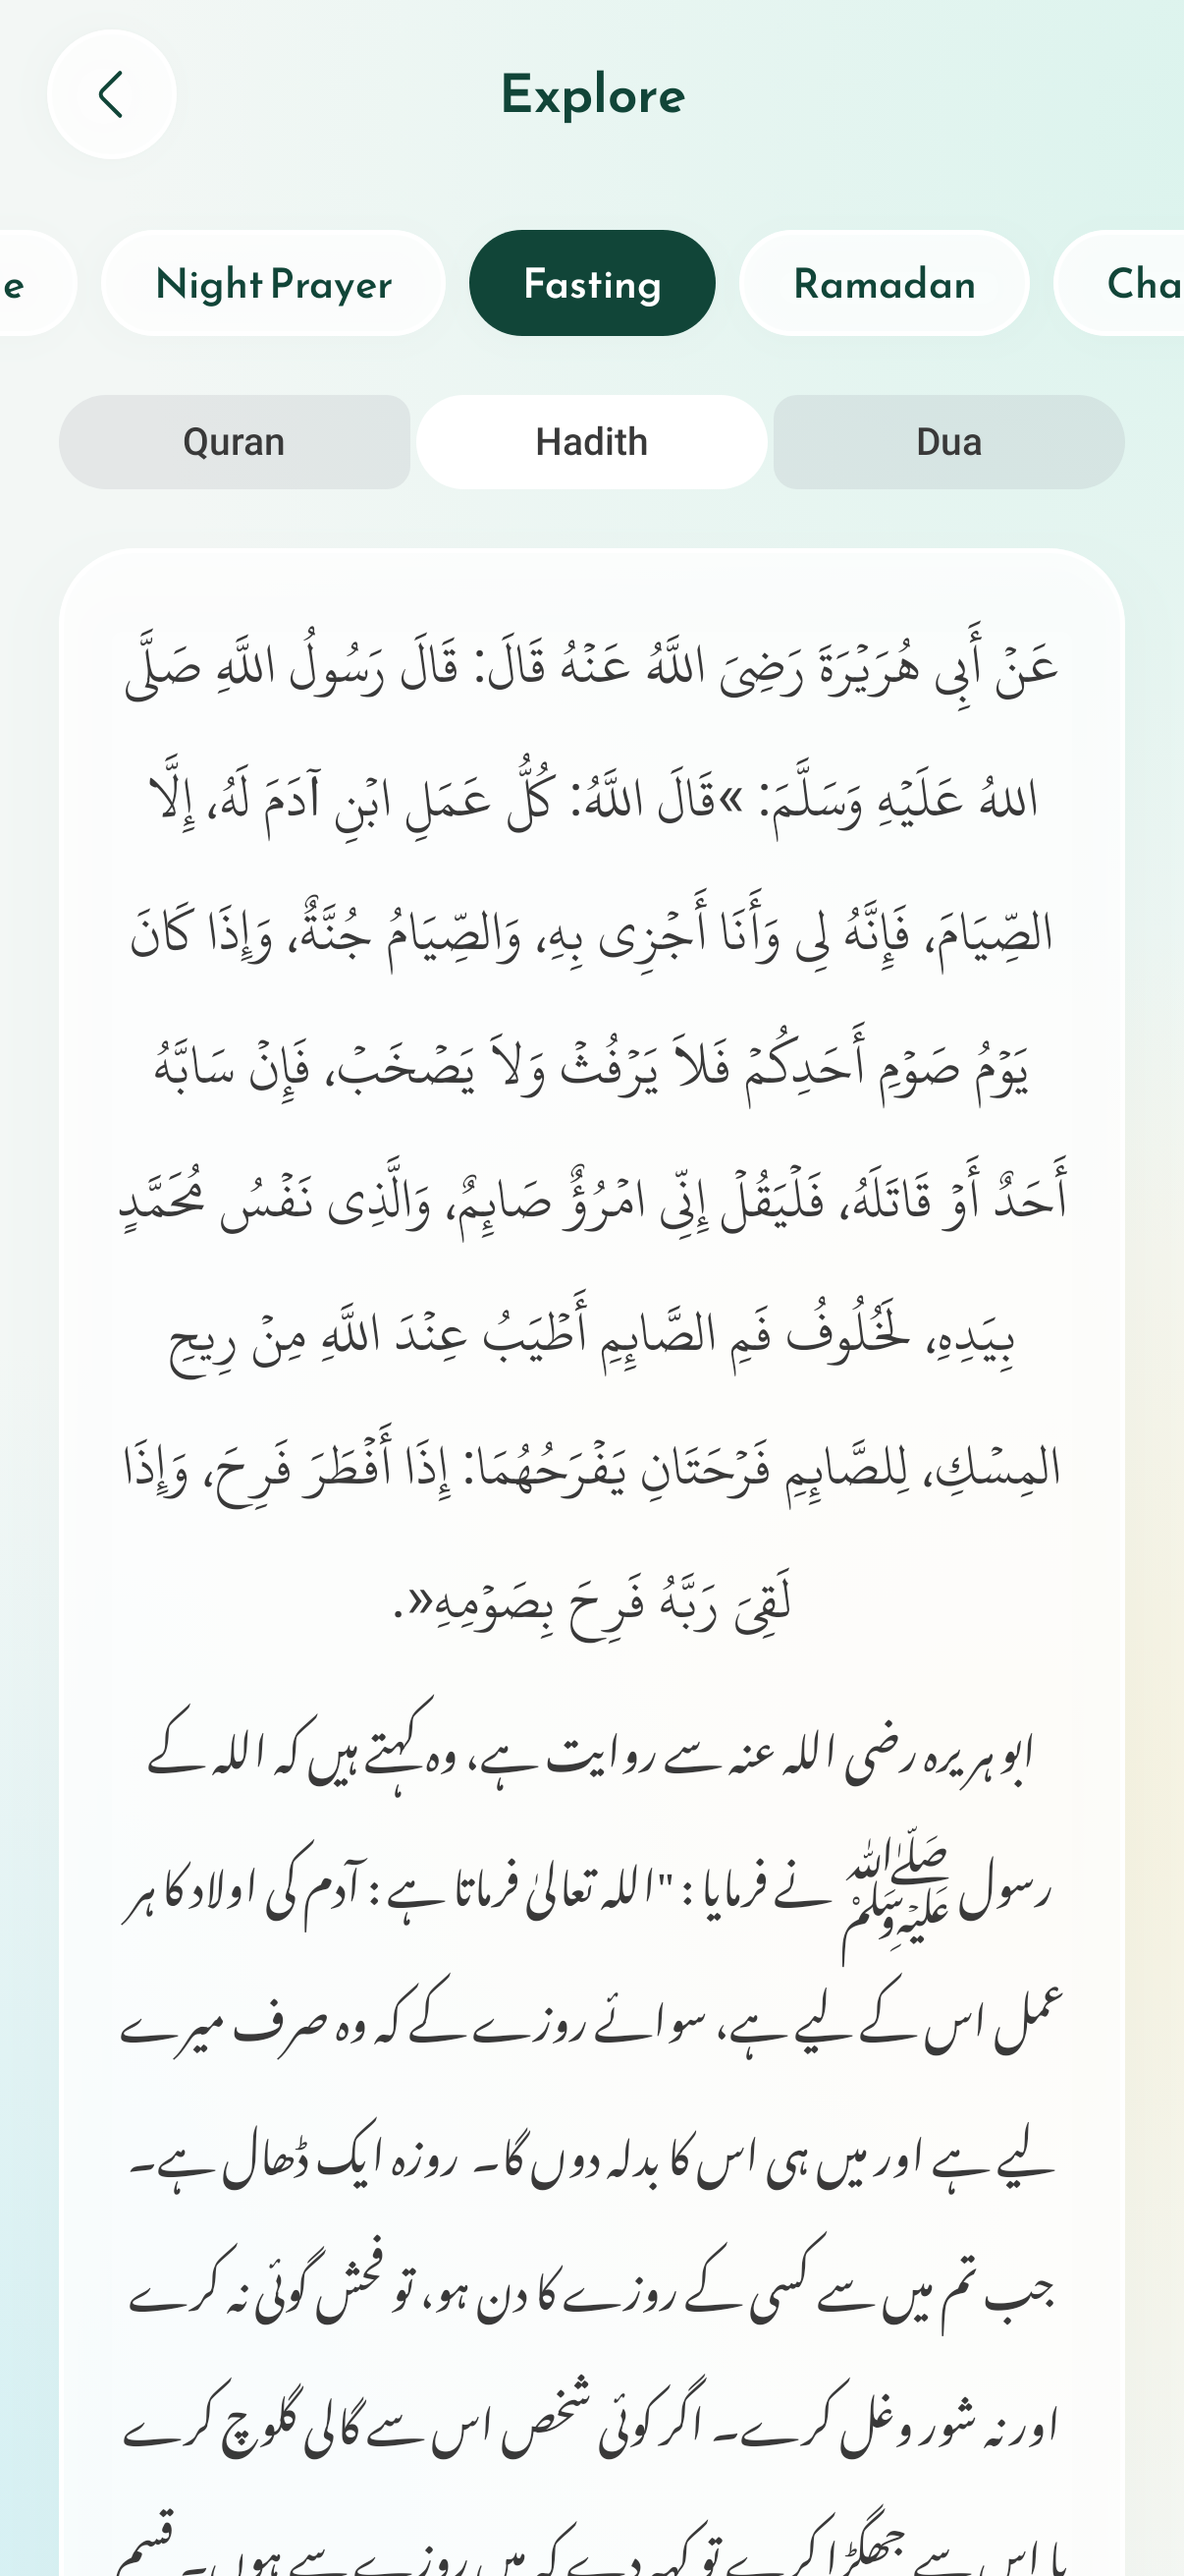
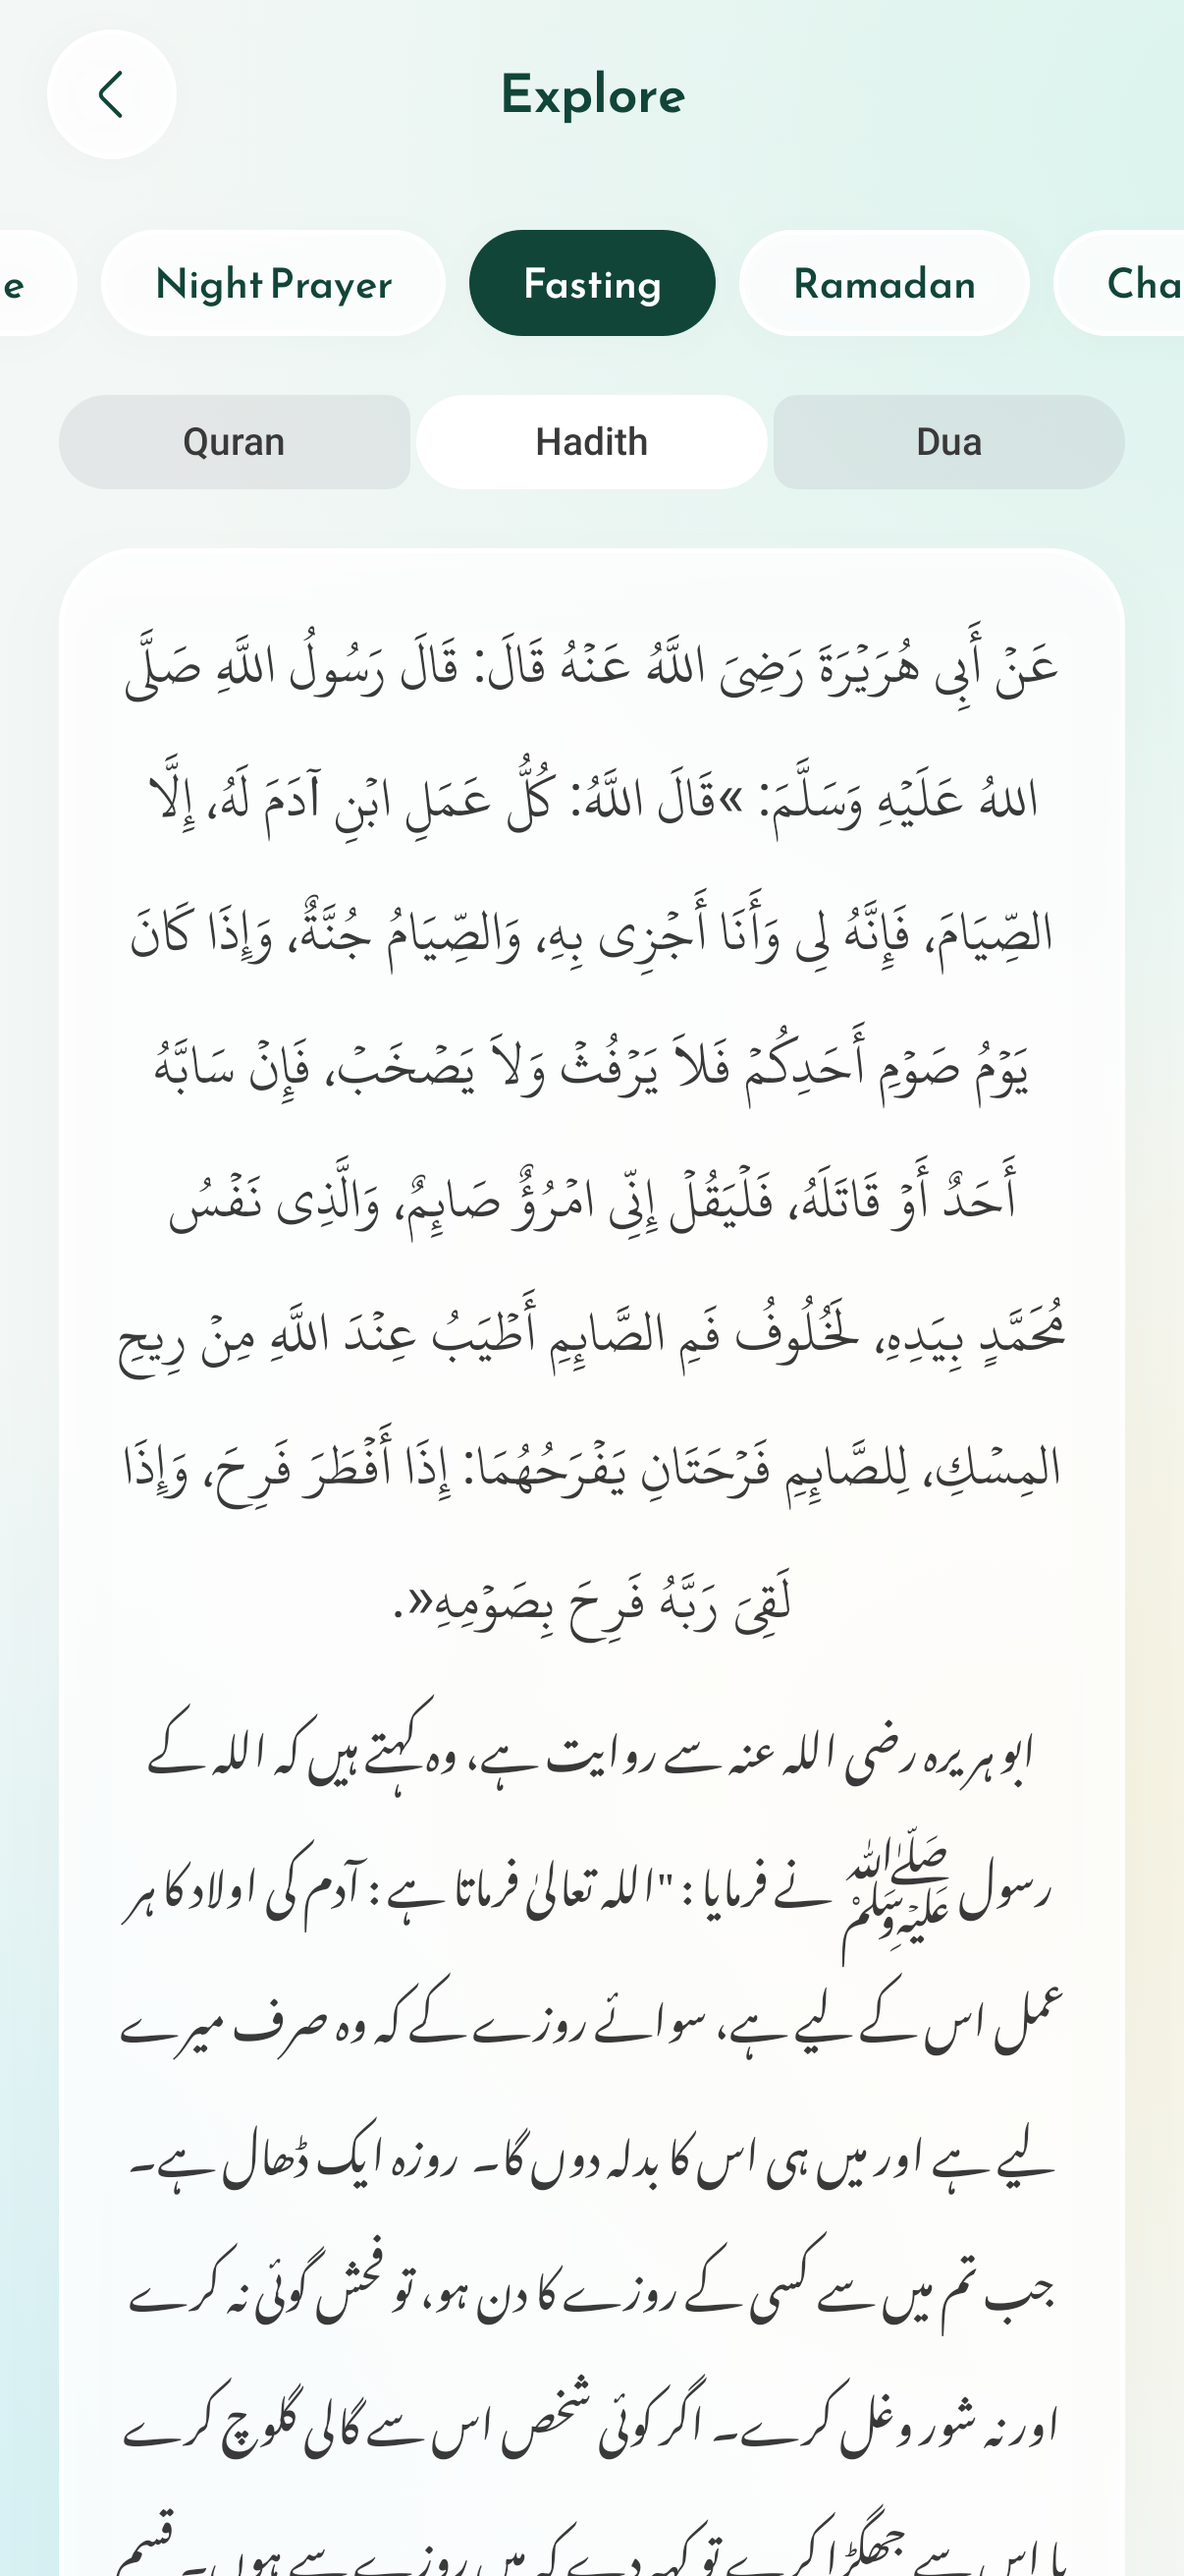
fix(android): break Arabic and translation lines per paragraph, as iOS does
High-quality paragraph breaking keeps a lone word off the last line. The guide now switches the
simulator's language with defaults write, which the preferences cache can't undo.

Changed region(s): [[0.1227, 0.4325, 0.7977, 0.5252], [0.7977, 0.4325, 0.8897, 0.5252]]

diff --git a/androidApp/src/main/kotlin/com/muttaqi/android/designsystem/component/Text.kt b/androidApp/src/main/kotlin/com/muttaqi/android/designsystem/component/Text.kt
@@ -15,6 +15,7 @@ import androidx.compose.ui.text.SpanStyle
 import androidx.compose.ui.text.TextStyle
 import androidx.compose.ui.text.buildAnnotatedString
 import androidx.compose.ui.text.font.FontFamily
+import androidx.compose.ui.text.style.LineBreak
 import androidx.compose.ui.text.style.LineHeightStyle
 import androidx.compose.ui.text.style.TextAlign
 import androidx.compose.ui.text.style.TextDirection
@@ -72,6 +73,7 @@ fun ArabicText(
             fontSize = fontSize,
             lineHeight = lineHeight(fontSize, QURAN_FONT_LINE_HEIGHT, lineSpacing),
             lineHeightStyle = SpacingBelowLines,
+            lineBreak = LineBreak.Paragraph,
             textDirection = TextDirection.Rtl,
         ),
     )
@@ -108,6 +110,7 @@ fun TranslationText(
                 fontSize = size,
                 lineHeight = lineHeight(size, NASTALIQ_LINE_HEIGHT, if (lineSpacing.isSpecified) lineSpacing else 8.sp),
                 lineHeightStyle = SpacingBelowLines,
+                lineBreak = LineBreak.Paragraph,
                 textDirection = TextDirection.Rtl,
             )
         } else {
@@ -116,6 +119,7 @@ fun TranslationText(
                 fontSize = fontSize,
                 lineHeight = lineHeight(fontSize, REEM_KUFI_LINE_HEIGHT, if (lineSpacing.isSpecified) lineSpacing else 4.sp),
                 lineHeightStyle = SpacingBelowLines,
+                lineBreak = LineBreak.Paragraph,
             )
         },
     )
@@ -145,6 +149,8 @@ private const val REEM_KUFI_LINE_HEIGHT = 1.5f
 /** A line as tall as iOS makes it: the font's own line height, then the spacing */
 private fun lineHeight(fontSize: TextUnit, fontLineHeight: Float, lineSpacing: TextUnit): TextUnit =
     (fontSize.value * fontLineHeight + lineSpacing.value).sp
+
+// Lines are broken for the paragraph as a whole, as iOS does, which keeps a lone word off the last line
 
 /** The spacing goes under each line but the last, as on iOS, so the text starts and ends where its glyphs do */
 private val SpacingBelowLines = LineHeightStyle(LineHeightStyle.Alignment.Top, LineHeightStyle.Trim.Both)

diff --git a/MIGRATION.md b/MIGRATION.md
@@ -92,8 +92,9 @@ cd iosApp && xcodebuild -project Muttaqi.xcodeproj -scheme Muttaqi \
 - Tests: reducers, view models (intents → state and effects, language switch), repositories with fakes
   (`shared/src/commonTest/.../testing/Fakes.kt`), and a host test that decodes the real bundled file if you read one.
 - iOS: install the build on your own simulator (`xcrun simctl install/launch`), walk every screen of your feature in
-  light and dark and in Urdu (`plutil -replace reading_selected_language -string ur` on the app's preferences plist in
-  its data container), and take screenshots (`xcrun simctl io <id> screenshot`). They must match the pre-migration app.
+  light and dark and in Urdu (`xcrun simctl spawn <id> defaults write <data container>/Library/Preferences/com.muttaqi.islamic
+  reading_selected_language ur`, then relaunch; editing the plist directly is often undone by the preferences cache), and
+  take screenshots (`xcrun simctl io <id> screenshot`). They must match the pre-migration app.
 - Android: screenshot tests for every screen in light and dark, compared by eye with the iOS screenshots.
 
 ## Pull request
